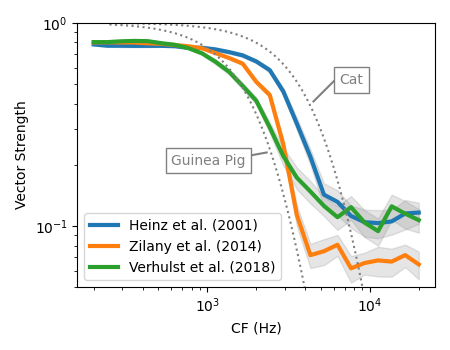
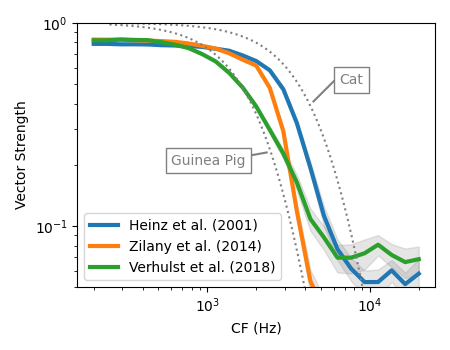
Attempts to estimate tuning using clicks on bm

Changed region(s): [[0.1867, 0.0857, 0.9333, 0.8286]]

diff --git a/nofigure/tuning_curves/estimate_q10_bm_clicks.py b/nofigure/tuning_curves/estimate_q10_bm_clicks.py
@@ -1,0 +1,131 @@
+"""
+This script estimates Q10 based on clicks
+"""
+import apcmodels.synthesis as sy
+import apcmodels.simulation as si
+import apcmodels.anf as anf
+import apcmodels.signal as sg
+import numpy as np
+import config as cfg
+import os
+import sys
+sys.path.append('/home/daniel/apc_code/scripts/Verhulstetal2018Model')
+from run_model2018 import Verhulst2018Cochlea
+
+
+def calc_erb(freq):
+    """
+    Calculates the ERB at a given frequency
+
+    Arguments:
+        freq (float): frequency in Hz
+
+    Returns:
+        ERB (float): ERB in Hz
+    """
+    freq = freq/1000  # transform from Hz to kHz
+    return 24.7 * (4.37 * freq + 1)  # equation from Moore and Glasberg (1983)
+
+
+def synthesize_click(dur_click=0.08 / 1000, dur_pre_click=0.01, dur_post_click=0.06, fs=int(200e3)):
+    """
+    Synthesizes a single click embedded in silence
+
+    Arguments:
+        dur_click (float): duration of click in seconds
+        dur_stim (float): duration of stimulus in seconds. The click is embedded in the middle of the stimulus
+        fs (int): sampling rate in Hz
+
+    Returns:
+        output (array): pure tone
+    """
+    dur_stim = dur_pre_click + dur_click + dur_post_click
+    # Create time axis
+    t = np.linspace(0, dur_stim, int(dur_stim * fs))
+    # Create click
+    click = np.zeros(shape=t.shape)
+    click[np.logical_and(t > dur_pre_click, t < (dur_pre_click+dur_click))] = 1
+    return click
+
+
+def calculate_verhulst2018_bm_response(_input, fs, **kwargs):
+    """
+    Implements Verhulst, Altoe, and Vasilikov (2018) peripheral model and returns basilar membrane response
+
+    Arguments:
+        _input (ndarray): 1-dimensional ndarray containing an acoustic stimulus in pascals
+        fs (int): sampling rate in Hz
+
+    Returns:
+        output (ndarray): output array of basilar membrane response, of shape (n_cf, n_sample)
+
+    Warnings:
+        - Note that arguments passed to **kwargs are discarded silently
+    """
+    # Run firing rate simulations
+    vm, fs_res, cfs_model = Verhulst2018Cochlea(_input, fs)
+    vm = np.flip(vm, axis=1)  # flip tonotopic axis left-right
+    vm = vm.T  # transpose to (n_cf, n_sample)
+
+    return vm, fs_res, np.flip(cfs_model)
+
+
+def QERB_calculation(bmm, cf, fs):
+    samples = bmm.shape[0]
+    half = samples / 2
+    ener = 0
+    F = (2 * abs(np.fft.fft(bmm)) / samples) ** 2
+    max_val = F.max(0)
+    for j in range(int(half) + 1):
+        ener = ener + F[j]
+    BW = (ener / max_val) * fs / samples
+    Q = cf / BW
+    return Q
+
+
+def QERB_calculation(bmm, cfs, fs):
+    central = cfs.shape[0]
+    samples = bmm.shape[1]
+    half = samples / 2
+    F = np.zeros((samples, central))
+    G = np.zeros((samples, central))
+    max_val = np.zeros(central)
+    ener = np.zeros(central)
+    BW = np.zeros(central)
+    QdB = np.zeros(central)
+
+    for i in range(int(central)):
+        F[:, i] = (2 * abs(np.fft.fft(bmm[i, :])) / samples) ** 2
+        max_val[i] = F.max(0)[i]
+        for j in range(int(half) + 1):
+            ener[i] = ener[i] + F[j, i]
+        # ener[i] = (F.sum(0)[i])/2
+        BW[i] = (ener[i] / max_val[i]) * fs / samples
+        QdB[i] = cfs[i] / BW[i]
+    return QdB
+
+
+# Simulate Verhulst basilar membrane response to 30 dB SPL click
+fs = int(200e3)
+click = synthesize_click(fs=fs)
+click = sg.scale_dbspl(click, 50)
+vm, _, model_cfs = calculate_verhulst2018_bm_response(click, fs=int(200e3))
+
+# Calculate energy in impulse response at each CF we care about
+cfs = 10**np.linspace(np.log10(200), np.log10(20000), 25)  # CFs for which we will measure q10
+q10s = []
+#for cf in cfs:
+    # Extract the impulse response at this CF and calculate its power
+    #bm_impulse_response = vm[np.argmin(np.abs(model_cfs-cf)), :]
+    #power_in_impulse_response = np.sum(bm_impulse_response**2)  # calculate power as int x^2(t) dt, Parseval's theorem
+    #q10s.append(QERB_calculation(bm_impulse_response, cf, fs))
+    # Calculate the power that would enter into an ERB at this CF
+    #X = np.fft.fft(click)  # calculate the spectrum of the click
+    #f = np.linspace(0, fs, len(click))  # calculate the frequency axis for X
+    #erb = calc_erb(cf)  # calculate ERB at this cf
+    #X[np.logical_or(np.logical_not(np.logical_and(f >= cf-erb/2, f <= cf+erb/2)),  # zero out spectrum not in passband
+    #                np.logical_not(np.logical_and(f >= (fs-cf)-erb/2, f <= (fs-cf)+erb/2)))] = 0
+    #power_in_erb = np.sum(np.abs(X)**2)
+
+#cf_test = np.array([1000, 2000, 4000, 8000])
+plt.plot(model_cfs, QERB_calculation(vm, model_cfs, fs)/2)

diff --git a/nofigure/vector_strength_curves/vector_strength_curves.py b/nofigure/vector_strength_curves/vector_strength_curves.py
@@ -56,7 +56,7 @@ def estimate_vector_strength(freqs, fs, model, model_name, n_rep):
         return inner
 
     # Encode fixed stimulus params in dict
-    params = si.Parameters(dur=0.50, dur_ramp=0.020, level=20, phase=0, fs=fs)  # encode fixed params
+    params = si.Parameters(dur=2, dur_ramp=0.020, level=20, phase=0, fs=fs)  # encode fixed params
     params.wiggle_parallel(['freq', 'cf_low', 'cf_high'], [freqs, freqs, freqs])  # wiggle freqs and cfs
 
     # Add model params to dict
@@ -84,7 +84,7 @@ def estimate_vector_strength(freqs, fs, model, model_name, n_rep):
 
 
 # Define parameters
-fs = int(200e3)  # sampling rate in Hz
+fs = int(100e3)  # sampling rate in Hz
 n_rep = 50
 freqs = 10**np.linspace(np.log10(200), np.log10(20000), 25)  # CFs for which we will measure vector strength curves
 
